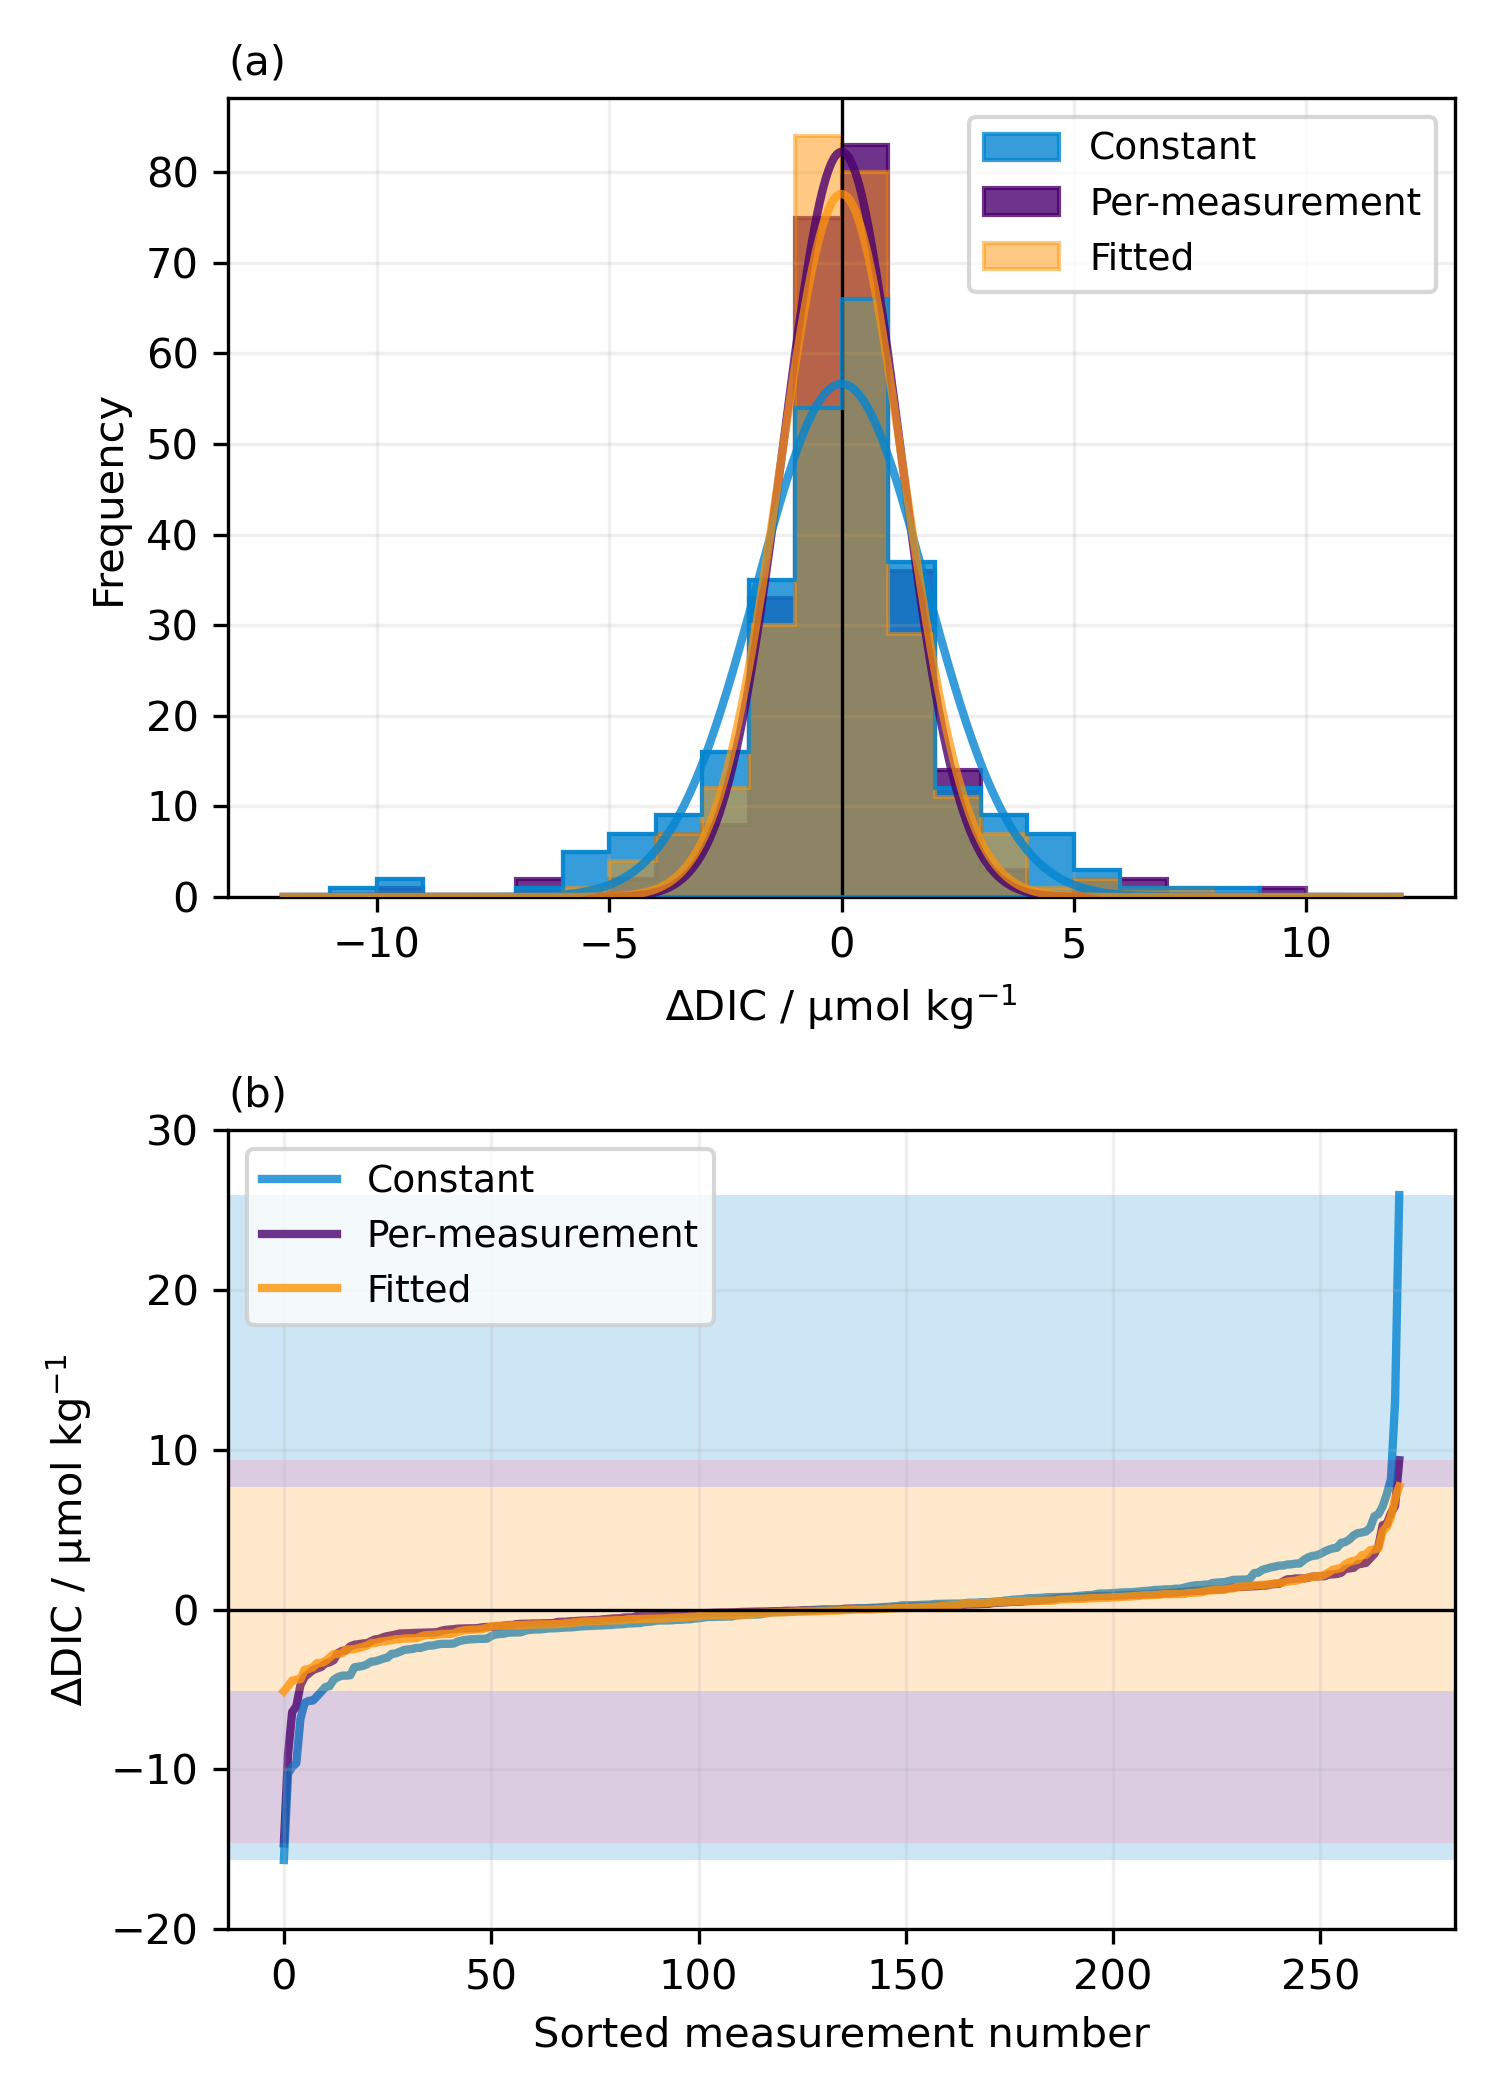
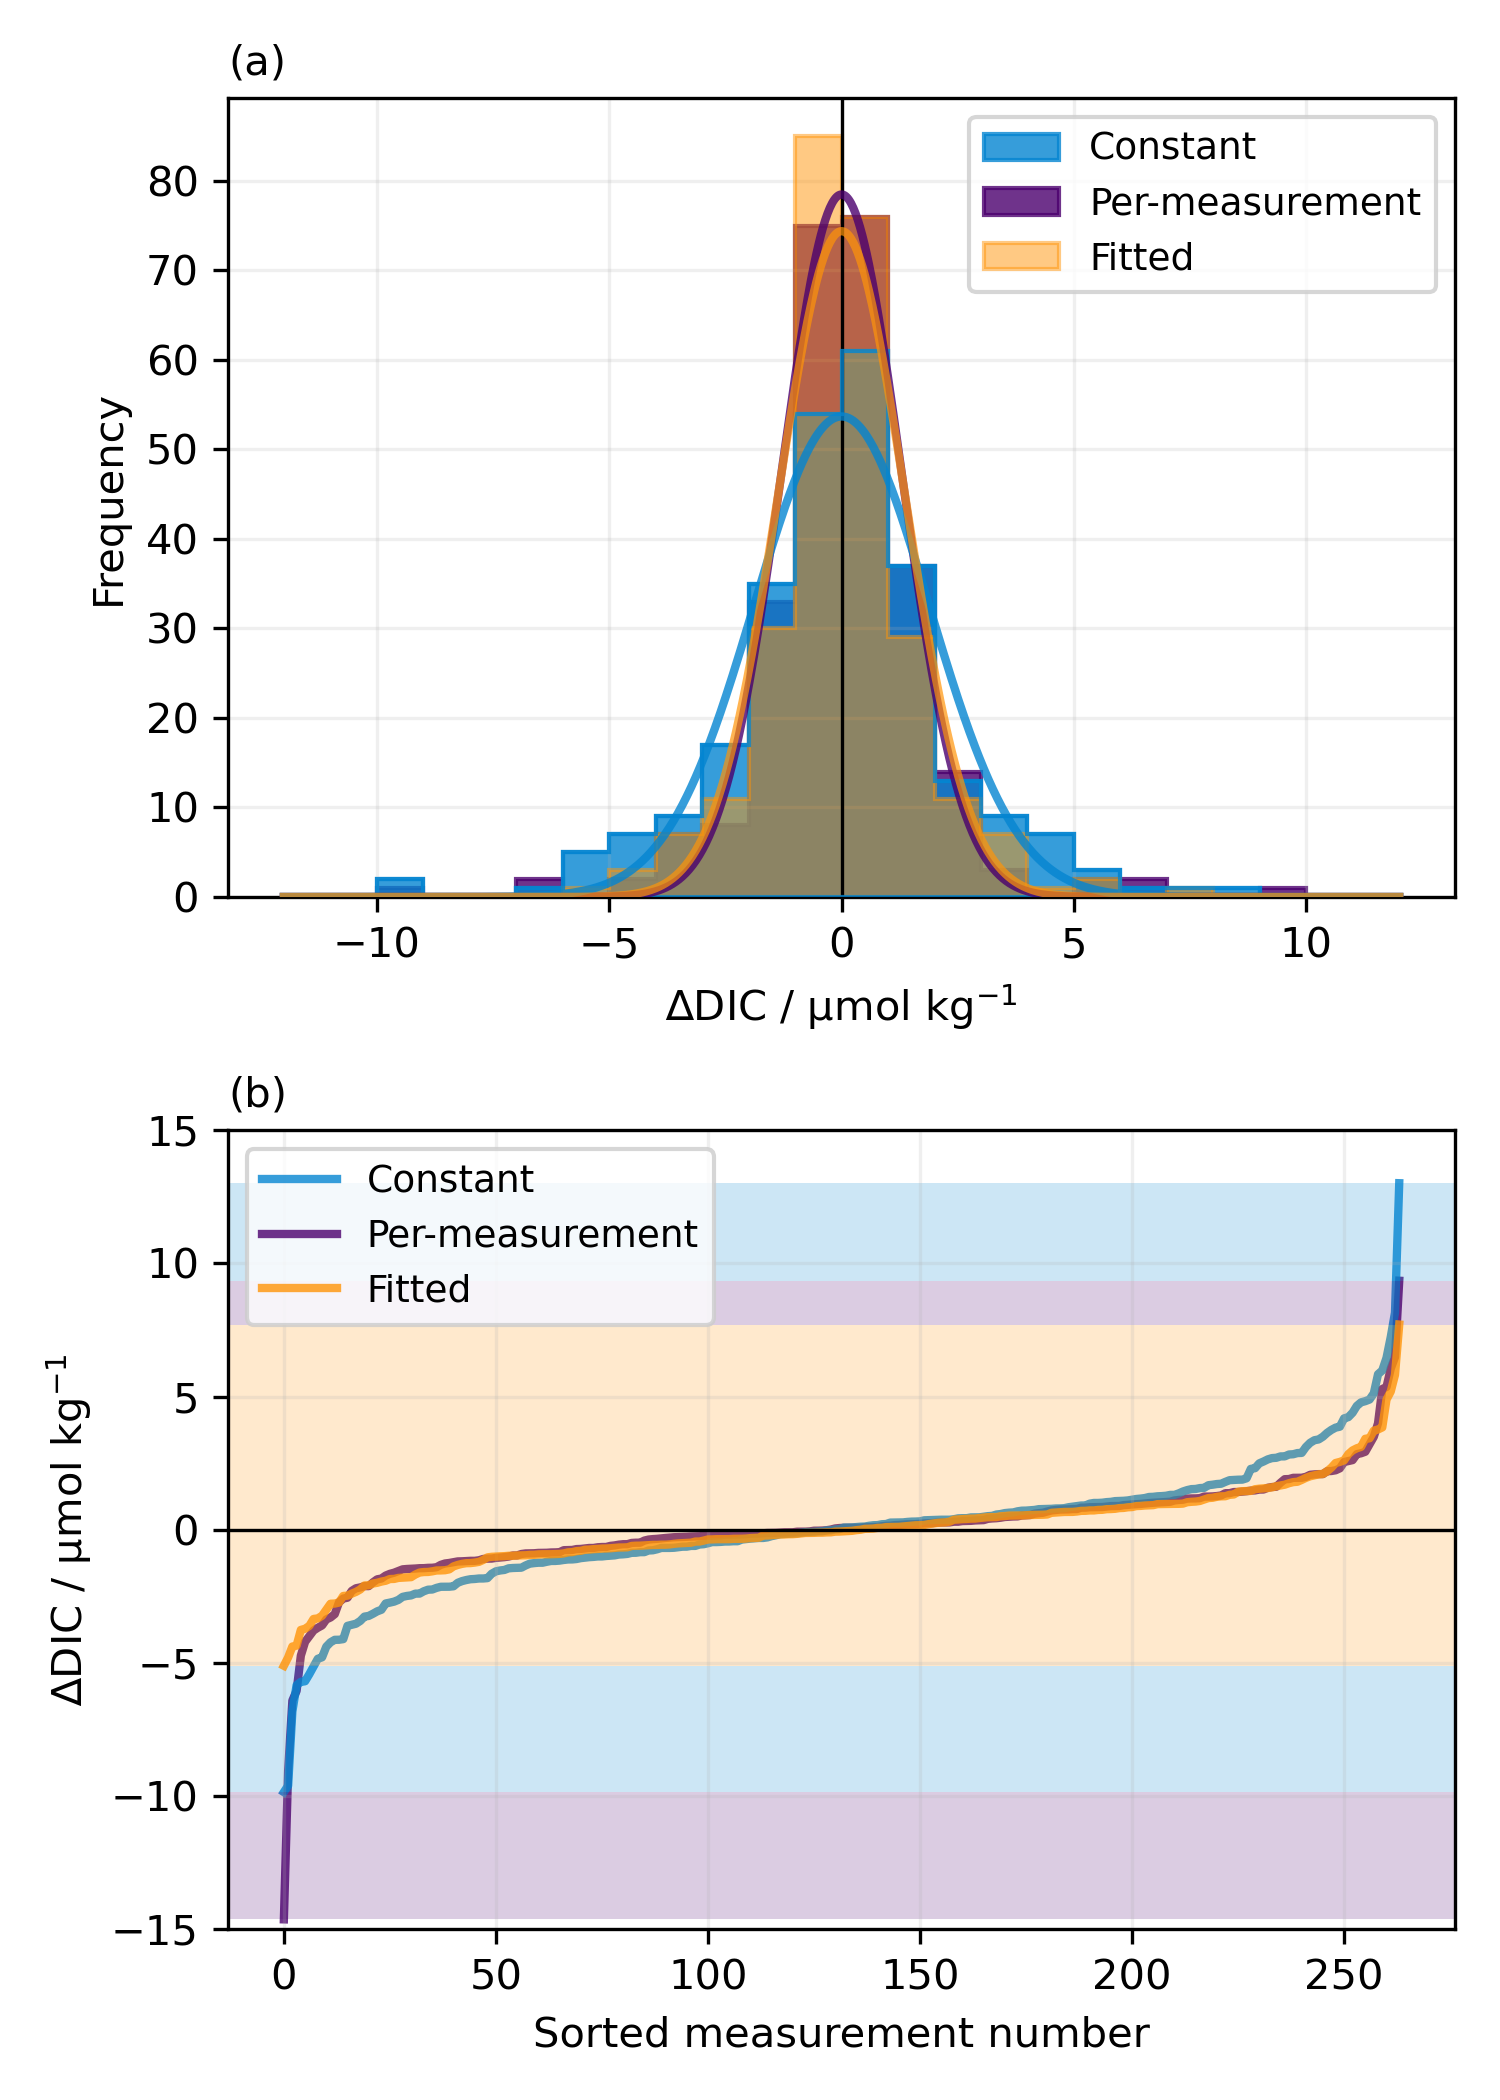
Morning updates

diff --git a/print_stats.py b/print_stats.py
@@ -1,37 +1,67 @@
 # %%
+import numpy as np
 from scipy import stats
 
-from read_datasets import dbs
+from read_datasets import dbs, sessions, std_Sn
 
+print("Counts")
+print(f"{dbs.nuts.sum()} nuts measurements total")
+print(f"{dbs.nuts_good.sum()} nuts measurements after QC")
+print(f" (so {dbs.nuts.sum() - dbs.nuts_good.sum()} not used)")
+print(f"{dbs.nuts_usable.sum()} nuts measurements usable for analysis")
+print(" (i.e. where there was more than one nuts measurement per session)")
+print(
+    f"There were {(sessions.n_nuts > 0).sum()} analysis sessions over {dbs[dbs.nuts_usable].datetime_analysis.max() - dbs[dbs.nuts_usable].datetime_analysis.min()} from"
+)
+print(
+    f"{dbs[dbs.nuts_usable].datetime_analysis.min()} to {dbs[dbs.nuts_usable].datetime_analysis.max()}"
+)
+print(f"but only {sessions.usable.sum()} sessions had usable data in the end.")
 l1 = stats.levene(
-    dbs[dbs.nuts_good].dic_norm_cb.values, dbs[dbs.nuts_good].dic_norm_bh.values
+    dbs[dbs.nuts_usable].dic_norm_cb.values, dbs[dbs.nuts_usable].dic_norm_bh.values
 )
 l2 = stats.levene(
-    dbs[dbs.nuts_good].dic_norm_cb.values, dbs[dbs.nuts_good].dic_norm.values
+    dbs[dbs.nuts_usable].dic_norm_cb.values, dbs[dbs.nuts_usable].dic_norm.values
 )
 l3 = stats.levene(
-    dbs[dbs.nuts_good].dic_norm_bh.values, dbs[dbs.nuts_good].dic_norm.values
+    dbs[dbs.nuts_usable].dic_norm_bh.values, dbs[dbs.nuts_usable].dic_norm.values
 )
+print("")
 print("BF test")
 print(f"Const vs per-m: stat={l1.statistic:.1f}, p={l1.pvalue:.0e}")
 print(f"Const vs fittd: stat={l2.statistic:.1f}, p={l2.pvalue:.0e}")
 print(f"Per-m vs fittd: stat={l3.statistic:.2f}, p={l3.pvalue:.2f}")
 print("")
 print("Kurtosis")
-print(f"Const: {stats.kurtosis(dbs[dbs.nuts_good].dic_norm_cb.values):.1f}")
-print(f"Per-m: {stats.kurtosis(dbs[dbs.nuts_good].dic_norm_bh.values):.1f}")
-print(f"Fittd: {stats.kurtosis(dbs[dbs.nuts_good].dic_norm.values):.1f}")
+print(f"Const: {stats.kurtosis(dbs[dbs.nuts_usable].dic_norm_cb.values):.1f}")
+print(f"Per-m: {stats.kurtosis(dbs[dbs.nuts_usable].dic_norm_bh.values):.1f}")
+print(f"Fittd: {stats.kurtosis(dbs[dbs.nuts_usable].dic_norm.values):.1f}")
 print("")
 print("Range")
 print(
-    f"Const: {dbs[dbs.nuts_good].dic_norm_cb.max() - dbs[dbs.nuts_good].dic_norm_cb.min():.1f}"
-    + f" ({dbs[dbs.nuts_good].dic_norm_cb.min():.1f} to {dbs[dbs.nuts_good].dic_norm_cb.max():.1f})"
+    f"Const: {dbs[dbs.nuts_usable].dic_norm_cb.max() - dbs[dbs.nuts_usable].dic_norm_cb.min():.1f}"
+    + f" ({dbs[dbs.nuts_usable].dic_norm_cb.min():.1f} to {dbs[dbs.nuts_usable].dic_norm_cb.max():.1f})"
 )
 print(
-    f"Per-m: {dbs[dbs.nuts_good].dic_norm_bh.max() - dbs[dbs.nuts_good].dic_norm_bh.min():.1f}"
-    + f" ({dbs[dbs.nuts_good].dic_norm_bh.min():.1f} to {dbs[dbs.nuts_good].dic_norm_bh.max():.1f})"
+    f"Per-m: {dbs[dbs.nuts_usable].dic_norm_bh.max() - dbs[dbs.nuts_usable].dic_norm_bh.min():.1f}"
+    + f" ({dbs[dbs.nuts_usable].dic_norm_bh.min():.1f} to {dbs[dbs.nuts_usable].dic_norm_bh.max():.1f})"
 )
 print(
-    f"Fittd: {dbs[dbs.nuts_good].dic_norm.max() - dbs[dbs.nuts_good].dic_norm.min():.1f}"
-    + f" ({dbs[dbs.nuts_good].dic_norm.min():.1f} to {dbs[dbs.nuts_good].dic_norm.max():.1f})"
+    f"Fittd: {dbs[dbs.nuts_usable].dic_norm.max() - dbs[dbs.nuts_usable].dic_norm.min():.1f}"
+    + f" ({dbs[dbs.nuts_usable].dic_norm.min():.1f} to {dbs[dbs.nuts_usable].dic_norm.max():.1f})"
 )
+print("")
+print("Sn stdev")
+print(f"Const: {std_Sn(dbs.dic_norm_cb.values):.2f}")
+print(f"Per-m: {std_Sn(dbs.dic_norm_bh.values):.2f}")
+print(f"Fittd: {std_Sn(dbs.dic_norm.values):.2f}")
+print("Normal stdev")
+print(f"Const: {np.nanstd(dbs.dic_norm_cb.values):.2f}")
+print(f"Per-m: {np.nanstd(dbs.dic_norm_bh.values):.2f}")
+print(f"Fittd: {np.nanstd(dbs.dic_norm.values):.2f}")
+print("")
+print("Uncertainty")
+print(
+    f"{(dbs[dbs.nuts_usable].counts_u_blank_pct < 0.1).sum() * 100 / dbs.nuts_usable.sum():.0f} % of samples have blank uncertainty < 0.1 %,"
+)
+print(f" with a median of {dbs[dbs.nuts_usable].counts_u_blank_pct.median():.2f} %")

diff --git a/plot_histograms.py b/plot_histograms.py
@@ -57,7 +57,7 @@ ax.plot(
         # scale=dbs.dic_norm_cb.std(),
         scale=std_Sn(dbs.dic_norm_cb.values),
     )
-    * dbs.nuts_good.sum()
+    * dbs.nuts_usable.sum()
     * bin_width,
     c="xkcd:cerulean",
     # label=r"$\sigma(S_n)$ = "
@@ -74,7 +74,7 @@ ax.plot(
         # scale=dbs.dic_norm_bh.std(),
         scale=std_Sn(dbs.dic_norm_bh.values),
     )
-    * dbs.nuts_good.sum()
+    * dbs.nuts_usable.sum()
     * bin_width,
     c="xkcd:royal purple",
     # label=r"$\sigma(S_n)$ = "
@@ -91,7 +91,7 @@ ax.plot(
         # scale=dbs.dic_norm.std(),
         scale=std_Sn(dbs.dic_norm.values),
     )
-    * dbs.nuts_good.sum()
+    * dbs.nuts_usable.sum()
     * bin_width,
     c="xkcd:tangerine",
     # label=r"$\sigma(S_n)$ = "
@@ -109,10 +109,10 @@ ax.grid(alpha=0.2)
 ax.text(0, 1.03, "(a)", transform=ax.transAxes)
 
 ax = axs[1]
-fx = range(dbs[dbs.nuts_good].dic.size)
-fy = dbs[dbs.nuts_good].dic_norm.sort_values()
-fy_cb = dbs[dbs.nuts_good].dic_norm_cb.sort_values()
-fy_bh = dbs[dbs.nuts_good].dic_norm_bh.sort_values()
+fx = range(dbs[dbs.nuts_usable].dic.size)
+fy = dbs[dbs.nuts_usable].dic_norm.sort_values()
+fy_cb = dbs[dbs.nuts_usable].dic_norm_cb.sort_values()
+fy_bh = dbs[dbs.nuts_usable].dic_norm_bh.sort_values()
 kws = dict()
 ax.plot(
     fx,
@@ -146,16 +146,16 @@ ax.plot(
 )
 fxl = ax.get_xlim()
 lw = 1
-ax.fill_between(fxl, fy.iloc[0], fy.iloc[-1], facecolor="xkcd:tangerine", alpha=0.2)
+ax.fill_between(
+    fxl, fy_bh.iloc[-1], fy_cb.iloc[-1], facecolor="xkcd:cerulean", alpha=0.2
+)
 ax.fill_between(
     fxl, fy.iloc[-1], fy_bh.iloc[-1], facecolor="xkcd:royal purple", alpha=0.2
 )
+ax.fill_between(fxl, fy.iloc[0], fy.iloc[-1], facecolor="xkcd:tangerine", alpha=0.2)
+ax.fill_between(fxl, fy.iloc[0], fy_cb.iloc[0], facecolor="xkcd:cerulean", alpha=0.2)
 ax.fill_between(
-    fxl, fy.iloc[0], fy_bh.iloc[0], facecolor="xkcd:royal purple", alpha=0.2
-)
-ax.fill_between(fxl, fy_bh.iloc[0], fy_cb.iloc[0], facecolor="xkcd:cerulean", alpha=0.2)
-ax.fill_between(
-    fxl, fy_bh.iloc[-1], fy_cb.iloc[-1], facecolor="xkcd:cerulean", alpha=0.2
+    fxl, fy_cb.iloc[0], fy_bh.iloc[0], facecolor="xkcd:royal purple", alpha=0.2
 )
 # ax.axhline(fy_cb.iloc[0], ls=":", lw=lw, c="xkcd:cerulean")
 # ax.axhline(fy_cb.iloc[-1], ls=":", lw=lw, c="xkcd:cerulean")
@@ -169,7 +169,7 @@ ax.set_xlim(fxl)
 # ax.scatter(fx, fy_cb, **kws, c="xkcd:cerulean", alpha=0.5)
 # ax.scatter(fx, fy_bh, **kws, c="xkcd:kelly green", alpha=0.5)
 ax.axhline(0, c="k", lw=0.8)
-ax.set_ylim(-20, 30)
+ax.set_ylim(-15, 15)
 ax.grid(alpha=0.2)
 ax.set_ylabel("∆DIC / µmol kg$^{-1}$")
 ax.legend(fontsize=9)

diff --git a/read_datasets.py b/read_datasets.py
@@ -37,36 +37,41 @@ dbs["dic_bh"] = (
 )
 
 # Remove large outliers
-dbs["nuts_good"] = (
-    dbs.nuts
-    & dbs.dic.notnull()
-    & ~dbs.name_anon.isin(
-        [
-            "nuts-0012",
-            "nuts-0018",
-            "nuts-0083",
-            "nuts-0107",
-            "nuts-0108",
-            "nuts-0217",
-            "nuts-0251",
-            "nuts-0258",
-            "nuts-0270",
-            "nuts-0280",
-        ]
-    )
+dbs["nuts"] &= dbs.dic.notnull()
+dbs["nuts_good"] = dbs.nuts & ~dbs.name_anon.isin(
+    [
+        "nuts-0012",  # DIC much lower than others nearby
+        "nuts-0018",  # DIC much lower than others nearby
+        "nuts-0083",  # DIC higher (~10) than others nearby
+        "nuts-0107",  # DIC higher (~10) than others nearby
+        "nuts-0108",  # DIC higher (~20) than others nearby
+        "nuts-0217",  # DIC higher (~25) than others nearby
+        "nuts-0251",  # DIC much lower than others nearby
+        "nuts-0258",  # DIC much higher than others nearby
+        "nuts-0270",  # DIC lower than others nearby
+        "nuts-0274",  # DIC higher (~10) than others nearby
+        "nuts-0280",  # DIC higher (~30) than others nearby
+    ]
 )
 
 # Get session stats and normalised DIC for the nuts samples
 sessions["hours_range"] = np.nan
 for session in sessions.index:
     L = (dbs.dic_cell_id == session) & dbs.nuts_good
-    if L.sum() > 0:
+    sessions.loc[session, "n_nuts"] = L.sum()
+    if L.sum() > 1:
         dbs.loc[L, "dic_norm"] = dbs[L].dic - dbs[L].dic.mean()
         dbs.loc[L, "dic_norm_cb"] = dbs[L].dic_cb - dbs[L].dic_cb.mean()
         dbs.loc[L, "dic_norm_bh"] = dbs[L].dic_bh - dbs[L].dic_bh.mean()
         sessions.loc[session, "hours_range"] = (
             dbs[L].datenum_analysis.max() - dbs[L].datenum_analysis.min()
         ) * 24
+
+# Only keep sessions where there are 2 or more nuts measurements
+dbs["nuts_usable"] = dbs.nuts_good & dbs.dic_cell_id.isin(
+    sessions.index[sessions.n_nuts > 1]
+)
+sessions["usable"] = sessions.n_nuts > 1
 
 
 def std_Sn(a):

diff --git a/plot_nuts_dic.py b/plot_nuts_dic.py
@@ -1,0 +1,65 @@
+# %%
+import plotly.graph_objects as go
+from matplotlib import pyplot as plt
+
+from read_datasets import dbs
+
+fig, ax = plt.subplots(dpi=300, figsize=(5, 6))
+ax.scatter(
+    "datetime_analysis",
+    "dic",
+    data=dbs[dbs.nuts & ~dbs.nuts_good],
+    s=15,
+    alpha=0.8,
+    c="xkcd:strawberry",
+    marker="x",
+    label="Removed in QC",
+)
+ax.scatter(
+    "datetime_analysis",
+    "dic",
+    data=dbs[dbs.nuts & dbs.nuts_good & ~dbs.nuts_usable],
+    s=15,
+    alpha=0.9,
+    c="none",
+    edgecolor="xkcd:sea blue",
+    marker="s",
+    label="Not used (one in session)",
+)
+ax.scatter(
+    "datetime_analysis",
+    "dic",
+    data=dbs[dbs.nuts_usable],
+    s=20,
+    alpha=0.5,
+    c="xkcd:dark",
+    edgecolor="none",
+    label="Used for analysis",
+)
+ax.grid(alpha=0.2)
+ax.set_xlabel("Analysis date")
+ax.set_ylabel("DIC / µmol kg$^{-1}$")
+ax.legend(loc="lower left")
+fig.tight_layout()
+fig.savefig("figures/plot_nuts_dic.png")
+
+# %%
+L = dbs.nuts
+marker_color = []
+for i, row in dbs[L].iterrows():
+    if False:
+        pass
+    elif not row.nuts_good:
+        marker_color.append("black")
+    elif row.dic_cell_id == "C_Feb03-22_0802":
+        marker_color.append("red")
+    else:
+        marker_color.append("blue")
+scatter = go.Scatter(
+    x=dbs[L].datetime_analysis,
+    y=dbs[L].dic,
+    mode="markers",
+    marker_color=marker_color,
+)
+fig = go.Figure(scatter)
+fig.show()

diff --git a/plot_uncertainty.py b/plot_uncertainty.py
@@ -6,7 +6,7 @@ from read_datasets import dbs
 
 fig, ax = plt.subplots(dpi=300, figsize=(5, 4))
 ax.hist(
-    dbs[dbs.nuts_good].counts_u_blank_pct,
+    dbs[dbs.nuts_usable].counts_u_blank_pct,
     bins=np.arange(0, 0.77, 0.01),
     facecolor="xkcd:dark",
     alpha=0.8,
